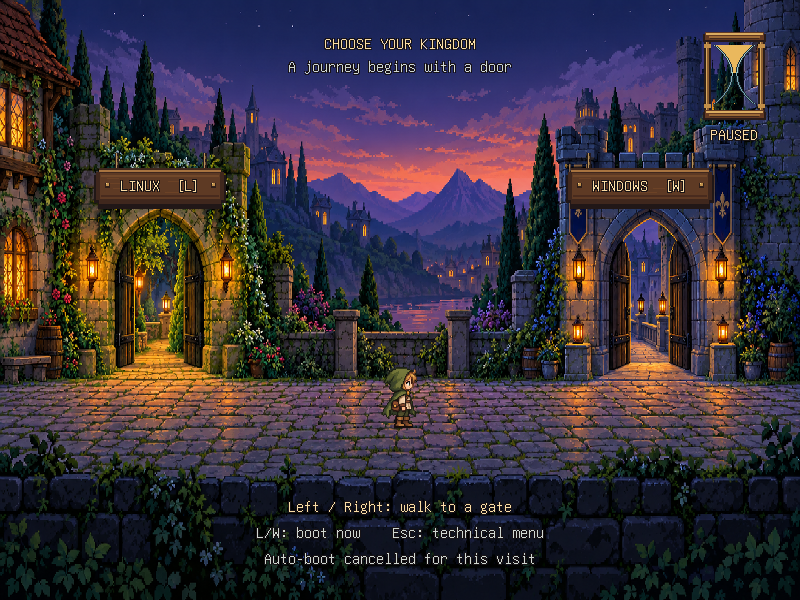
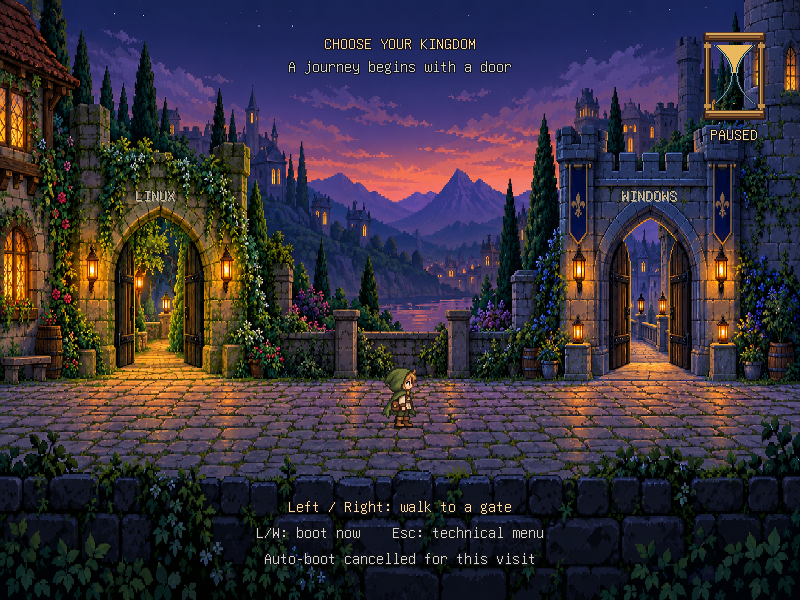
fix: center smaller stone inscriptions over the gates

Changed region(s): [[0.6875, 0.27, 0.9062, 0.36], [0.0938, 0.27, 0.2812, 0.36]]

diff --git a/fancy/bourgeois.c b/fancy/bourgeois.c
@@ -60,43 +60,17 @@ label (const char *text, int center, int y, int gold)
 }
 
 static void
-gate_sign (const char *text, int center, int y, int selected)
+gate_label (const char *text, int gate, int selected)
 {
-  int w = grub_font_get_string_width (font, text) + 52;
-  int x = center - w / 2, i;
-  /* Short chains fasten the board above the doorway. */
-  for (i = -1; i <= 1; i += 2)
-    {
-      int chain = center + i * (w / 2 - 22);
-      rect (chain - 1, y - 15, 4, 18, 38, 27, 27);
-      rect (chain, y - 15, 1, 18, 185, 146, 88);
-      rect (chain + 1, y - 12, 1, 3, 109, 84, 54);
-      rect (chain + 1, y - 6, 1, 3, 109, 84, 54);
-    }
-  /* Stepped ends, a bevel, and grain give the board a carved silhouette. */
-  rect (x + 4, y + 3, w - 8, 38, 33, 23, 23);
-  rect (x, y + 7, w, 28, 33, 23, 23);
-  rect (x + 5, y, w - 10, 36, 63, 39, 29);
-  rect (x + 2, y + 4, w - 4, 28, 63, 39, 29);
-  rect (x + 5, y + 2, w - 10, 2, selected ? 239 : 168,
-        selected ? 199 : 116, selected ? 115 : 64);
-  rect (x + 6, y + 5, w - 12, 26, 94, 58, 36);
-  rect (x + 7, y + 7, w - 14, 2, 113, 72, 42);
-  rect (x + 7, y + 27, w - 14, 2, 73, 43, 30);
-  for (i = 0; i < 7; i++)
-    {
-      int start = 13 + (i * 29) % (w - 48);
-      rect (x + start, y + 10 + (i * 7) % 16, 12 + i % 3 * 4, 1,
-            108, 66, 38);
-    }
-  for (i = -1; i <= 1; i += 2)
-    {
-      int pin = center + i * (w / 2 - 13);
-      rect (pin - 2, y + 15, 5, 5, 46, 30, 25);
-      rect (pin - 1, y + 15, 3, 3, 193, 145, 76);
-      rect (pin - 1, y + 15, 1, 1, 246, 211, 136);
-    }
-  label (text, center, y + 23, 1);
+  int center = gate * width / SCENE_WIDTH;
+  int x = center - grub_font_get_string_width (font, text) / 2;
+  int y = height * 316 / 941;
+  /* Inset lettering belongs to the existing masonry, with no added board. */
+  grub_font_draw_string (text, font, grub_video_map_rgb (165, 158, 140), x + 1, y + 1);
+  grub_font_draw_string (text, font, grub_video_map_rgb (27, 30, 38), x - 1, y - 1);
+  grub_font_draw_string (text, font,
+                        selected ? grub_video_map_rgb (255, 224, 158)
+                                 : grub_video_map_rgb (205, 189, 150), x, y);
 }
 
 static int
@@ -275,16 +249,17 @@ run_scene (grub_command_t cmd __attribute__ ((unused)), int argc, char **args)
       grub_video_blit_bitmap (background, GRUB_VIDEO_BLIT_REPLACE, 0, 0, 0, 0, width, height);
       label ("CHOOSE YOUR KINGDOM", width / 2, 49, 1);
       label ("A journey begins with a door", width / 2, 72, 0);
-      gate_sign ("LINUX  [L]", width / 5, height * 28 / 100, state.x == 480);
-      gate_sign ("WINDOWS  [W]", width * 4 / 5, height * 28 / 100, state.x == 1920);
+      gate_label ("LINUX", SCENE_LINUX_GATE_X, state.x == SCENE_LINUX_GATE_X);
+      gate_label ("WINDOWS", SCENE_WINDOWS_GATE_X, state.x == SCENE_WINDOWS_GATE_X);
       {
         int frame = state.x != state.target ? (now / 140) % 4 : 0;
         grub_video_blit_bitmap (state.target < state.origin ? left_actor : actor, GRUB_VIDEO_BLIT_BLEND,
-                                state.x * width / 2400 - frame_width / 2,
+                                state.x * width / SCENE_WIDTH - frame_width / 2,
                                 height * 73 / 100 - frame_height,
                                 frame * frame_width, 0, frame_width, frame_height);
       }
-      label (state.x == 480 ? "Space: enter Linux" : state.x == 1920 ? "Space: enter Windows"
+      label (state.x == SCENE_LINUX_GATE_X ? "Space: enter Linux"
+             : state.x == SCENE_WINDOWS_GATE_X ? "Space: enter Windows"
              : "Left / Right: walk to a gate", width / 2, height - 88, 1);
       label ("L/W: boot now    Esc: technical menu", width / 2, height - 62, 0);
       label (state.cancelled ? "Auto-boot cancelled for this visit"

diff --git a/fancy/state.h b/fancy/state.h
@@ -6,6 +6,10 @@ enum scene_key { SCENE_NONE, SCENE_LEFT, SCENE_RIGHT, SCENE_SPACE,
                  SCENE_LINUX, SCENE_WINDOWS, SCENE_ESCAPE, SCENE_OTHER };
 enum scene_action { SCENE_WAIT, SCENE_BOOT_LINUX, SCENE_BOOT_WINDOWS,
                     SCENE_TECHNICAL };
+/* Door centers in the 1672-pixel courtyard, shared by labels and walking. */
+enum { SCENE_WIDTH = 2400,
+       SCENE_LINUX_GATE_X = 326 * SCENE_WIDTH / 1672,
+       SCENE_WINDOWS_GATE_X = 1358 * SCENE_WIDTH / 1672 };
 struct scene_state
 {
   unsigned long long started, move_started;
@@ -16,7 +20,7 @@ static void
 scene_init (struct scene_state *s, unsigned long long now)
 {
   s->started = s->move_started = now;
-  s->x = s->origin = s->target = 1200;
+  s->x = s->origin = s->target = SCENE_WIDTH / 2;
   s->cancelled = 0;
   s->remaining = 30000;
 }
@@ -42,14 +46,14 @@ scene_step (struct scene_state *s, unsigned long long now, enum scene_key key)
     }
   if (key == SCENE_ESCAPE)
     return SCENE_TECHNICAL;
-  if (key == SCENE_LINUX || (key == SCENE_SPACE && s->x == 480))
+  if (key == SCENE_LINUX || (key == SCENE_SPACE && s->x == SCENE_LINUX_GATE_X))
     return SCENE_BOOT_LINUX;
-  if (key == SCENE_WINDOWS || (key == SCENE_SPACE && s->x == 1920))
+  if (key == SCENE_WINDOWS || (key == SCENE_SPACE && s->x == SCENE_WINDOWS_GATE_X))
     return SCENE_BOOT_WINDOWS;
   if (key == SCENE_LEFT || key == SCENE_RIGHT)
     {
       s->origin = s->x;
-      s->target = key == SCENE_LEFT ? 480 : 1920;
+      s->target = key == SCENE_LEFT ? SCENE_LINUX_GATE_X : SCENE_WINDOWS_GATE_X;
       s->move_started = now;
     }
   return SCENE_WAIT;

diff --git a/fancy/state_test.c b/fancy/state_test.c
@@ -14,20 +14,24 @@ int main (void)
   scene_init (&s, 0);
   assert (scene_step (&s, 0, SCENE_SPACE) == SCENE_WAIT);
   scene_step (&s, 0, SCENE_RIGHT);
-  assert (scene_step (&s, 1199, SCENE_SPACE) == SCENE_WAIT);
-  assert (scene_step (&s, 1200, SCENE_SPACE) == SCENE_BOOT_WINDOWS);
+  assert (scene_step (&s, 1200, SCENE_SPACE) == SCENE_WAIT);
+  assert (scene_step (&s, 1248, SCENE_SPACE) == SCENE_WAIT);
+  assert (scene_step (&s, 1249, SCENE_SPACE) == SCENE_BOOT_WINDOWS);
   scene_init (&s, 0);
   scene_step (&s, 0, SCENE_LEFT);
   scene_step (&s, 600, SCENE_RIGHT);
   assert (s.x == 840);
   scene_step (&s, 1200, SCENE_NONE);
   assert (s.x == 1200);
-  assert (scene_step (&s, 2400, SCENE_SPACE) == SCENE_BOOT_WINDOWS);
-  assert (scene_step (&s, 2400, SCENE_ESCAPE) == SCENE_TECHNICAL);
+  assert (scene_step (&s, 2400, SCENE_SPACE) == SCENE_WAIT);
+  assert (scene_step (&s, 2449, SCENE_SPACE) == SCENE_BOOT_WINDOWS);
+  assert (scene_step (&s, 2449, SCENE_ESCAPE) == SCENE_TECHNICAL);
   scene_init (&s, 0);
   assert (scene_step (&s, 1, SCENE_WINDOWS) == SCENE_BOOT_WINDOWS);
   assert (scene_step (&s, 1, SCENE_LINUX) == SCENE_BOOT_LINUX);
   scene_step (&s, 1, SCENE_LEFT);
+  assert (scene_step (&s, 1222, SCENE_SPACE) == SCENE_WAIT);
+  assert (scene_step (&s, 1223, SCENE_SPACE) == SCENE_BOOT_LINUX);
   assert (scene_step (&s, 100000, SCENE_SPACE) == SCENE_BOOT_LINUX);
   return 0;
 }
